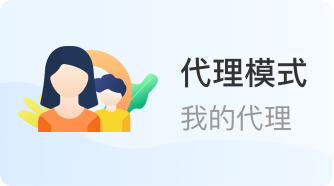
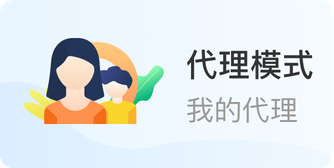
ui优化

Changed region(s): [[0.0299, 0.2083, 0.509, 0.744], [0.5389, 0.2976, 0.9581, 0.4762], [0.5389, 0.5655, 0.8982, 0.744]]

diff --git a/lib/view/main_view/home/home_page.dart b/lib/view/main_view/home/home_page.dart
@@ -98,16 +98,60 @@ class _HomePageState extends State<HomePage> {
           Navigator.of(context).pushNamed(HomePageAgency.tag);
         }
       },
-      child: Container(
-        width: MediaQuery.of(context).size.width / 2.2,
-        child: Image.asset(
-          Tools.imagePath(imageName),
-          width: MediaQuery.of(context).size.width / 2.2,
-          height: 93,
-          fit: BoxFit.fitHeight,
-        ),
-      ),
+      child: kIsWeb
+          ? Container(
+              child: Image.asset(
+                Tools.imagePath(imageName),
+                height: 93,
+                fit: BoxFit.fitHeight,
+              ),
+            )
+          : Container(
+              width: (MediaQuery.of(context).size.width - 30) / 2,
+              child: Image.asset(
+                Tools.imagePath(imageName),
+                width: (MediaQuery.of(context).size.width - 30) / 2,
+                height: ((MediaQuery.of(context).size.width - 30) / 2) / 1.98,
+                fit: BoxFit.fill,
+              ),
+            ),
     );
+  }
+
+  Widget buildImageParent(Widget one, Widget two) {
+    return kIsWeb
+        ? Row(
+            mainAxisAlignment: MainAxisAlignment.center,
+            children: <Widget>[
+              Container(
+                  height: 100,
+                  margin: EdgeInsets.symmetric(horizontal: 10),
+                  padding: EdgeInsets.only(top: 10),
+                  child: Row(
+                    children: <Widget>[
+                      one,
+                      SizedBox(
+                        width: 10,
+                      ),
+                      two,
+                    ],
+                  )),
+            ],
+          )
+        : Container(
+            width: MediaQuery.of(context).size.width,
+            margin: EdgeInsets.symmetric(horizontal: 10),
+            child: Row(
+              crossAxisAlignment: CrossAxisAlignment.start,
+              mainAxisAlignment: MainAxisAlignment.spaceBetween,
+              children: <Widget>[
+                one,
+                SizedBox(
+                  width: 10,
+                ),
+                two
+              ],
+            ));
   }
 
   Widget buildItemes(BuildContext context) {
@@ -115,15 +159,18 @@ class _HomePageState extends State<HomePage> {
       children: <Widget>[
         Container(
           width: MediaQuery.of(context).size.width,
-          height: 135.0,
+          height: 156.0,
           child: Swiper(
             itemCount: _bannerImageList.length,
             itemBuilder: (BuildContext context, int index) {
               return ClipRRect(
                   borderRadius: new BorderRadius.all(new Radius.circular(10.0)),
-                  child: InkWell(onTap: (){ Navigator.of(context).pushNamed(ShareReceivePage.tag);},
+                  child: InkWell(
+                    onTap: () {
+                      Navigator.of(context).pushNamed(ShareReceivePage.tag);
+                    },
                     child: Image.asset(Tools.imagePath(_bannerImageList[index]),
-                        fit: BoxFit.fitHeight),
+                        fit: kIsWeb ? BoxFit.fitHeight : BoxFit.fitWidth),
                   ));
             },
             autoplay: true,
@@ -138,52 +185,39 @@ class _HomePageState extends State<HomePage> {
           ),
         ),
         //银行卡和代理模式
+        SizedBox(
+          height: 10,
+        ),
         Container(
             width: MediaQuery.of(context).size.width,
-            height: 100,
-            margin: EdgeInsets.symmetric(horizontal: 10),
-            padding: EdgeInsets.only(top: 10),
-            child: Row(
-              crossAxisAlignment: CrossAxisAlignment.start,
-              mainAxisAlignment: MainAxisAlignment.spaceBetween,
+            child: Column(
               children: <Widget>[
-                buildImage(imageList[0], 0),
-                buildImage(imageList[1], 1),
+                buildImageParent(
+                  buildImage(imageList[0], 0),
+                  buildImage(imageList[1], 1),
+                ),
               ],
             )),
+
         //通知
         HomeNoticeView(),
 
         //入门手册
         Container(
             width: MediaQuery.of(context).size.width,
-            height: 200,
-            margin: EdgeInsets.symmetric(horizontal: 10),
             child: Column(
               children: <Widget>[
-                Row(
-                  crossAxisAlignment: CrossAxisAlignment.start,
-                  mainAxisAlignment: MainAxisAlignment.spaceBetween,
-                  children: <Widget>[
-                    buildImage(imageList1[0], 2),
-                    buildImage(imageList1[1], 3),
-                  ],
+                buildImageParent(
+                  buildImage(imageList1[0], 2),
+                  buildImage(imageList1[1], 3),
                 ),
                 SizedBox(height: 10),
-                Row(
-                  crossAxisAlignment: CrossAxisAlignment.start,
-                  mainAxisAlignment: MainAxisAlignment.spaceBetween,
-                  children: <Widget>[
-                    buildImage(imageList1[2], 4),
-                    buildImage(imageList1[3], 5),
-                  ],
-                )
+                buildImageParent(
+                  buildImage(imageList1[2], 4),
+                  buildImage(imageList1[3], 5),
+                ),
               ],
             )),
-
-//        Container(
-//          child: ,
-//        )
       ],
     );
   }

diff --git a/lib/view/main_view/home/home_notice_view.dart b/lib/view/main_view/home/home_notice_view.dart
@@ -1,4 +1,5 @@
 import 'package:flutter/cupertino.dart';
+import 'package:flutter/foundation.dart';
 import 'package:flutter/material.dart';
 import 'package:flutter_swiper/flutter_swiper.dart';
 import 'package:wpay_app/tools/GlobalEventBus.dart';
@@ -27,19 +28,19 @@ class _HomeNoticeView extends State<HomeNoticeView> {
   @override
   void dispose() {
     // TODO: implement dispose
-    NotificationCenter.instance.removeNotification('jumpToPage');
     super.dispose();
   }
   @override
   Widget build(BuildContext context) {
     return Container(
       width: MediaQuery.of(context).size.width,
-      margin: EdgeInsets.all(15),
+      height: 113,
+      margin: EdgeInsets.only(left: 15,right: 15,top: 5),
       decoration: BoxDecoration(
         borderRadius: BorderRadius.circular(8),
         image: DecorationImage(
           image: AssetImage(Tools.imagePath('home_notice')),
-          fit: BoxFit.fitWidth,
+          fit: kIsWeb?BoxFit.fitHeight:BoxFit.fitWidth,
         ),
       ),
       child: Row(
@@ -49,7 +50,7 @@ class _HomeNoticeView extends State<HomeNoticeView> {
           Expanded(
             child: Container(
               height: 30,
-              margin: EdgeInsets.only(left: 60),
+             alignment: Alignment.center,
               child: Swiper(
                 itemCount: _noticeStringList.length,
                 itemBuilder: (BuildContext context, int index) {
@@ -78,15 +79,6 @@ class _HomeNoticeView extends State<HomeNoticeView> {
                   NotificationCenter.instance.postNotification('jumpToPage', 1);
                 },
               ),
-            ),
-          ),
-          Container(
-            margin: EdgeInsets.symmetric(horizontal: 8),
-            child: Image.asset(
-              Tools.imagePath('home_notice_right'),
-              fit: BoxFit.cover,
-              width: 56,
-              height: 56,
             ),
           ),
         ],

diff --git a/lib/view/main_view/me/user_info_set.dart b/lib/view/main_view/me/user_info_set.dart
@@ -1,7 +1,10 @@
 import 'package:flutter/cupertino.dart';
 import 'package:flutter/material.dart';
 import 'package:shared_preferences/shared_preferences.dart';
+import 'package:wpay_app/model/grap_model.dart';
+import 'package:wpay_app/tools/GlobalEventBus.dart';
 import 'package:wpay_app/view/welcome/start_login.dart';
+import 'package:wpay_app/view/widgets/notificationCenter.dart';
 
 import '../../../l10n/WalletLocalizations.dart';
 import '../../../model/global_model.dart';
@@ -163,6 +166,8 @@ class _UserInfoSetState extends State<UserInfoSet> {
                   SharedPreferences.getInstance();
                   prefs.then((share) {
                     share.clear();
+                    GlobalEventBus().event.fire(new StopGrapThreadModel());
+                    NotificationCenter.instance.removeNotification('jumpToPage');
                     Navigator.of(context).pushAndRemoveUntil(
                       MaterialPageRoute(builder: (context) => StartLoginPage()),
                           (route) => route == null,

diff --git a/lib/tools/net_config.dart b/lib/tools/net_config.dart
@@ -12,6 +12,7 @@ import 'package:shared_preferences/shared_preferences.dart';
 import 'package:wpay_app/model/grap_model.dart';
 import 'package:wpay_app/tools/GlobalEventBus.dart';
 import 'package:wpay_app/view/welcome/start_login.dart';
+import 'package:wpay_app/view/widgets/notificationCenter.dart';
 import 'package:wpay_app/view_model/state_lib.dart';
 import 'package:http_parser/http_parser.dart';
 
@@ -224,6 +225,7 @@ class NetConfig {
     } else if (response.statusCode == 403) {
 
       GlobalEventBus().event.fire(new StopGrapThreadModel());
+      NotificationCenter.instance.removeNotification('jumpToPage');
 
       GlobalInfo.clear();
       msg = '请重新登录';

diff --git a/lib/view/main_view/me/my_page.dart b/lib/view/main_view/me/my_page.dart
@@ -49,7 +49,6 @@ class _UserCenterState extends State<UserCenter> {
   void dispose() {
     super.dispose();
     _refreshController.dispose();
-    NotificationCenter.instance.removeNotification('jumpToPage');
 
   }
 
